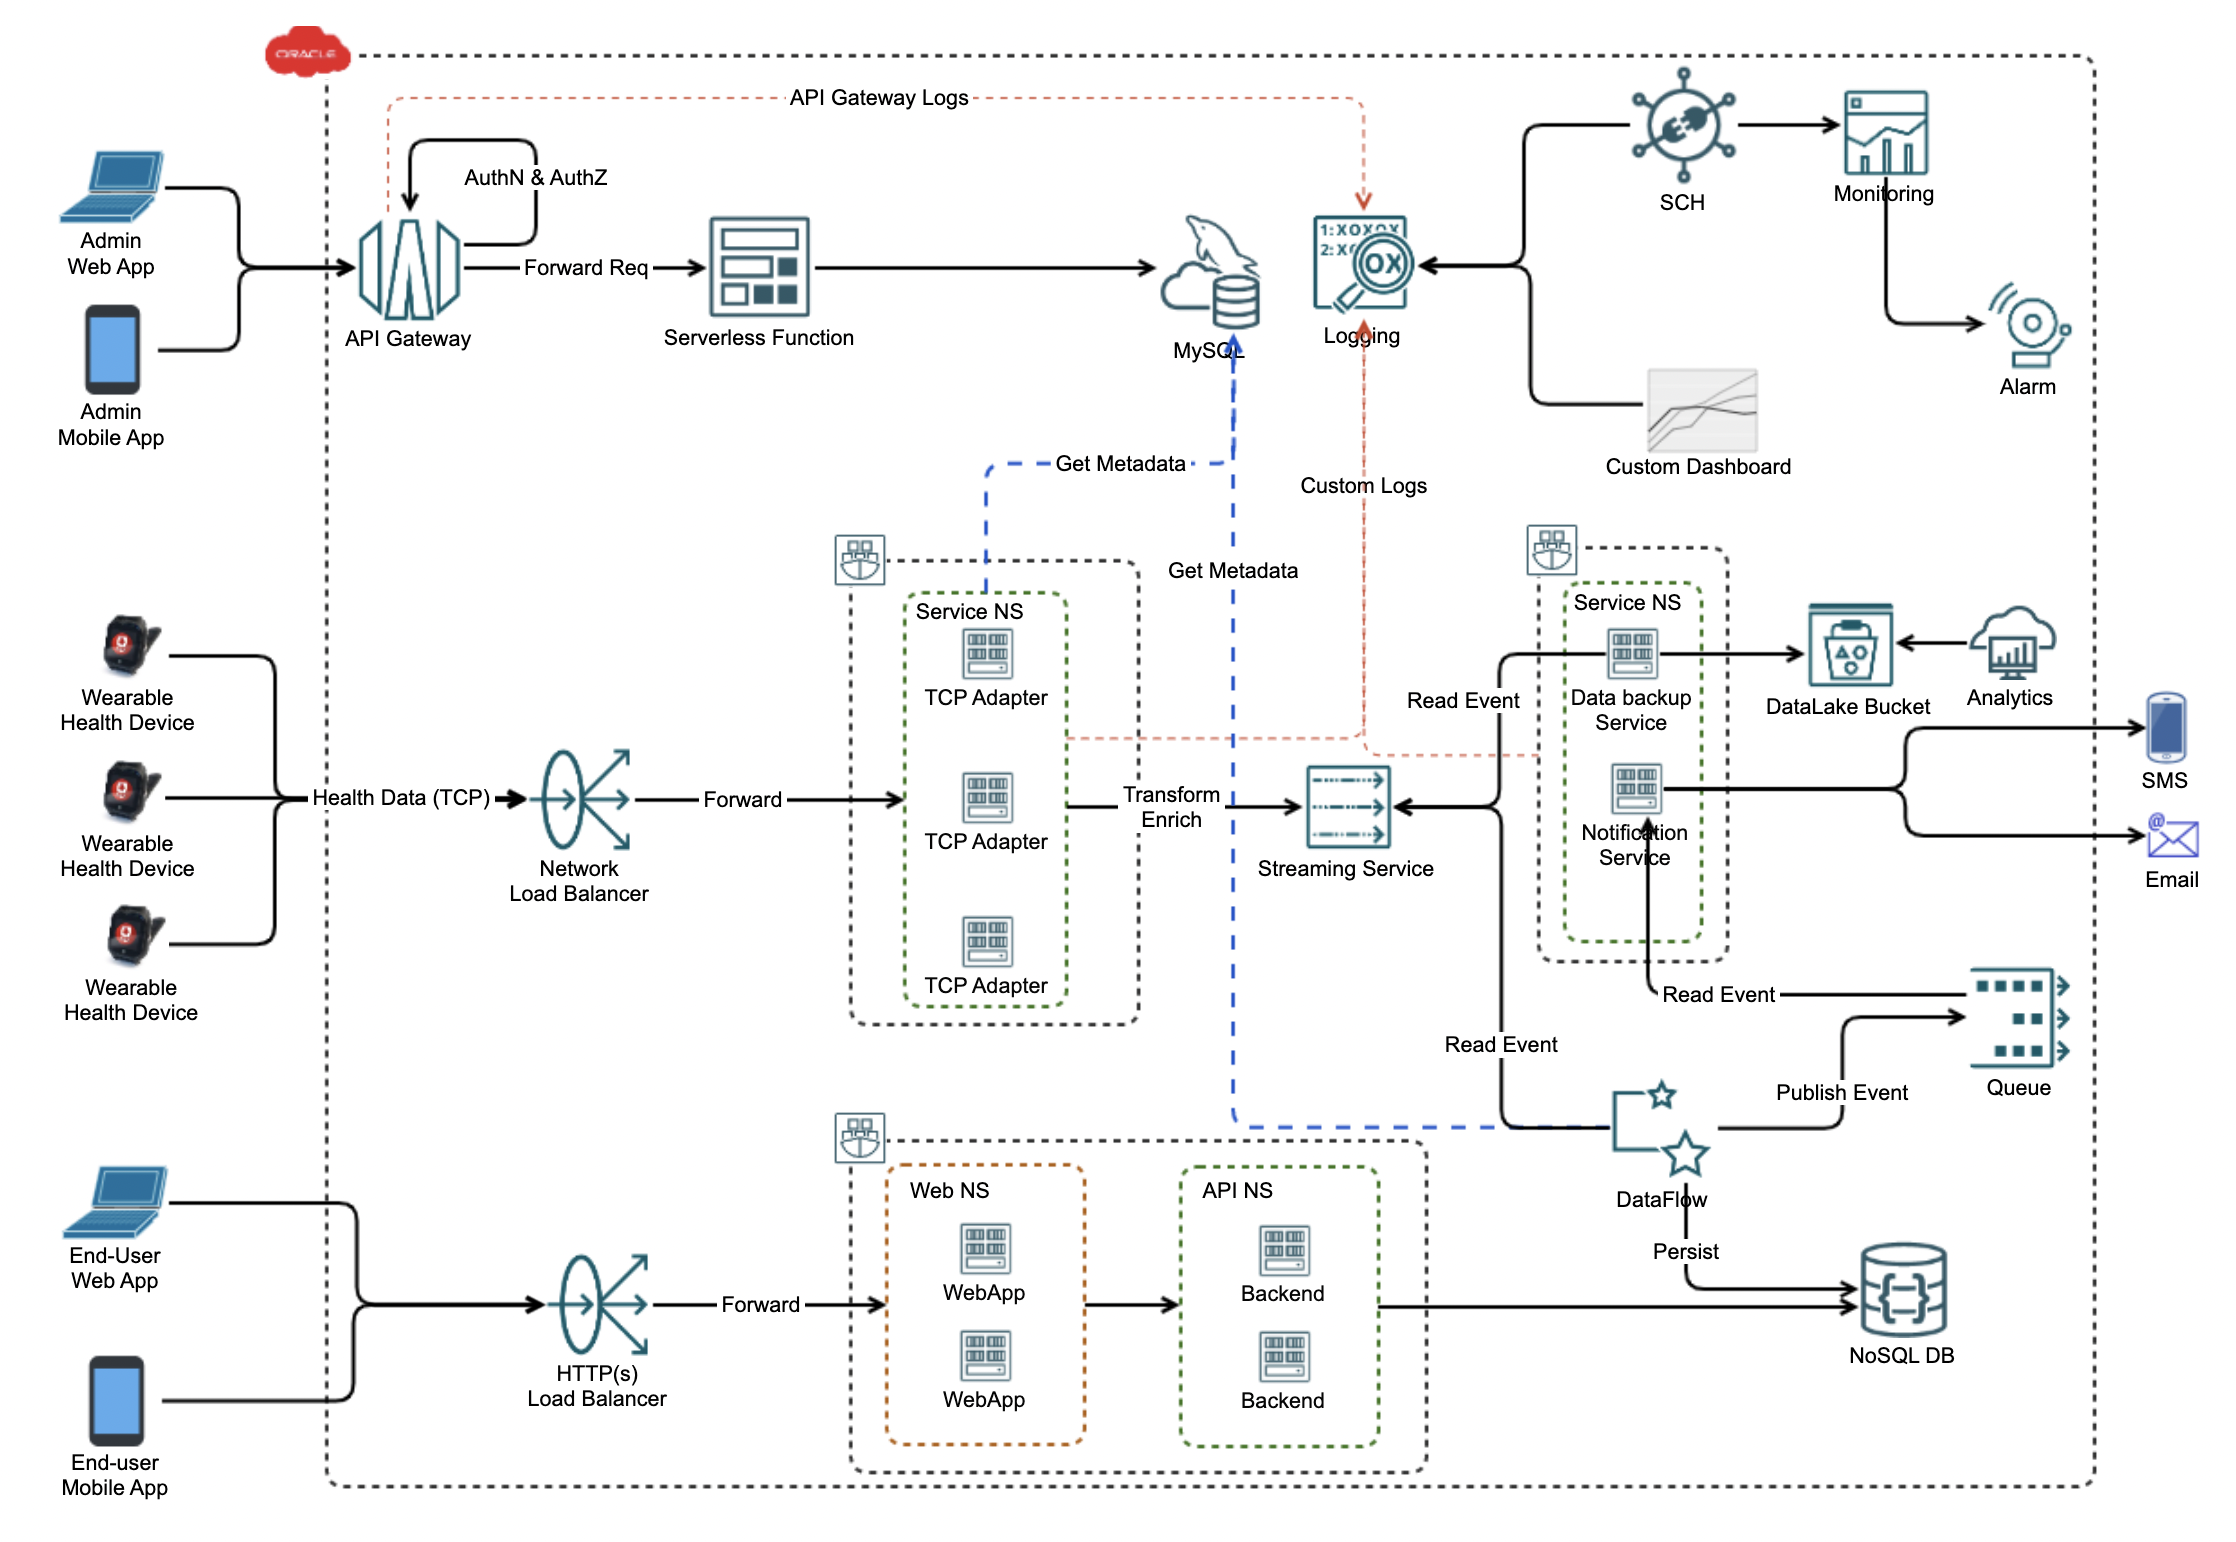
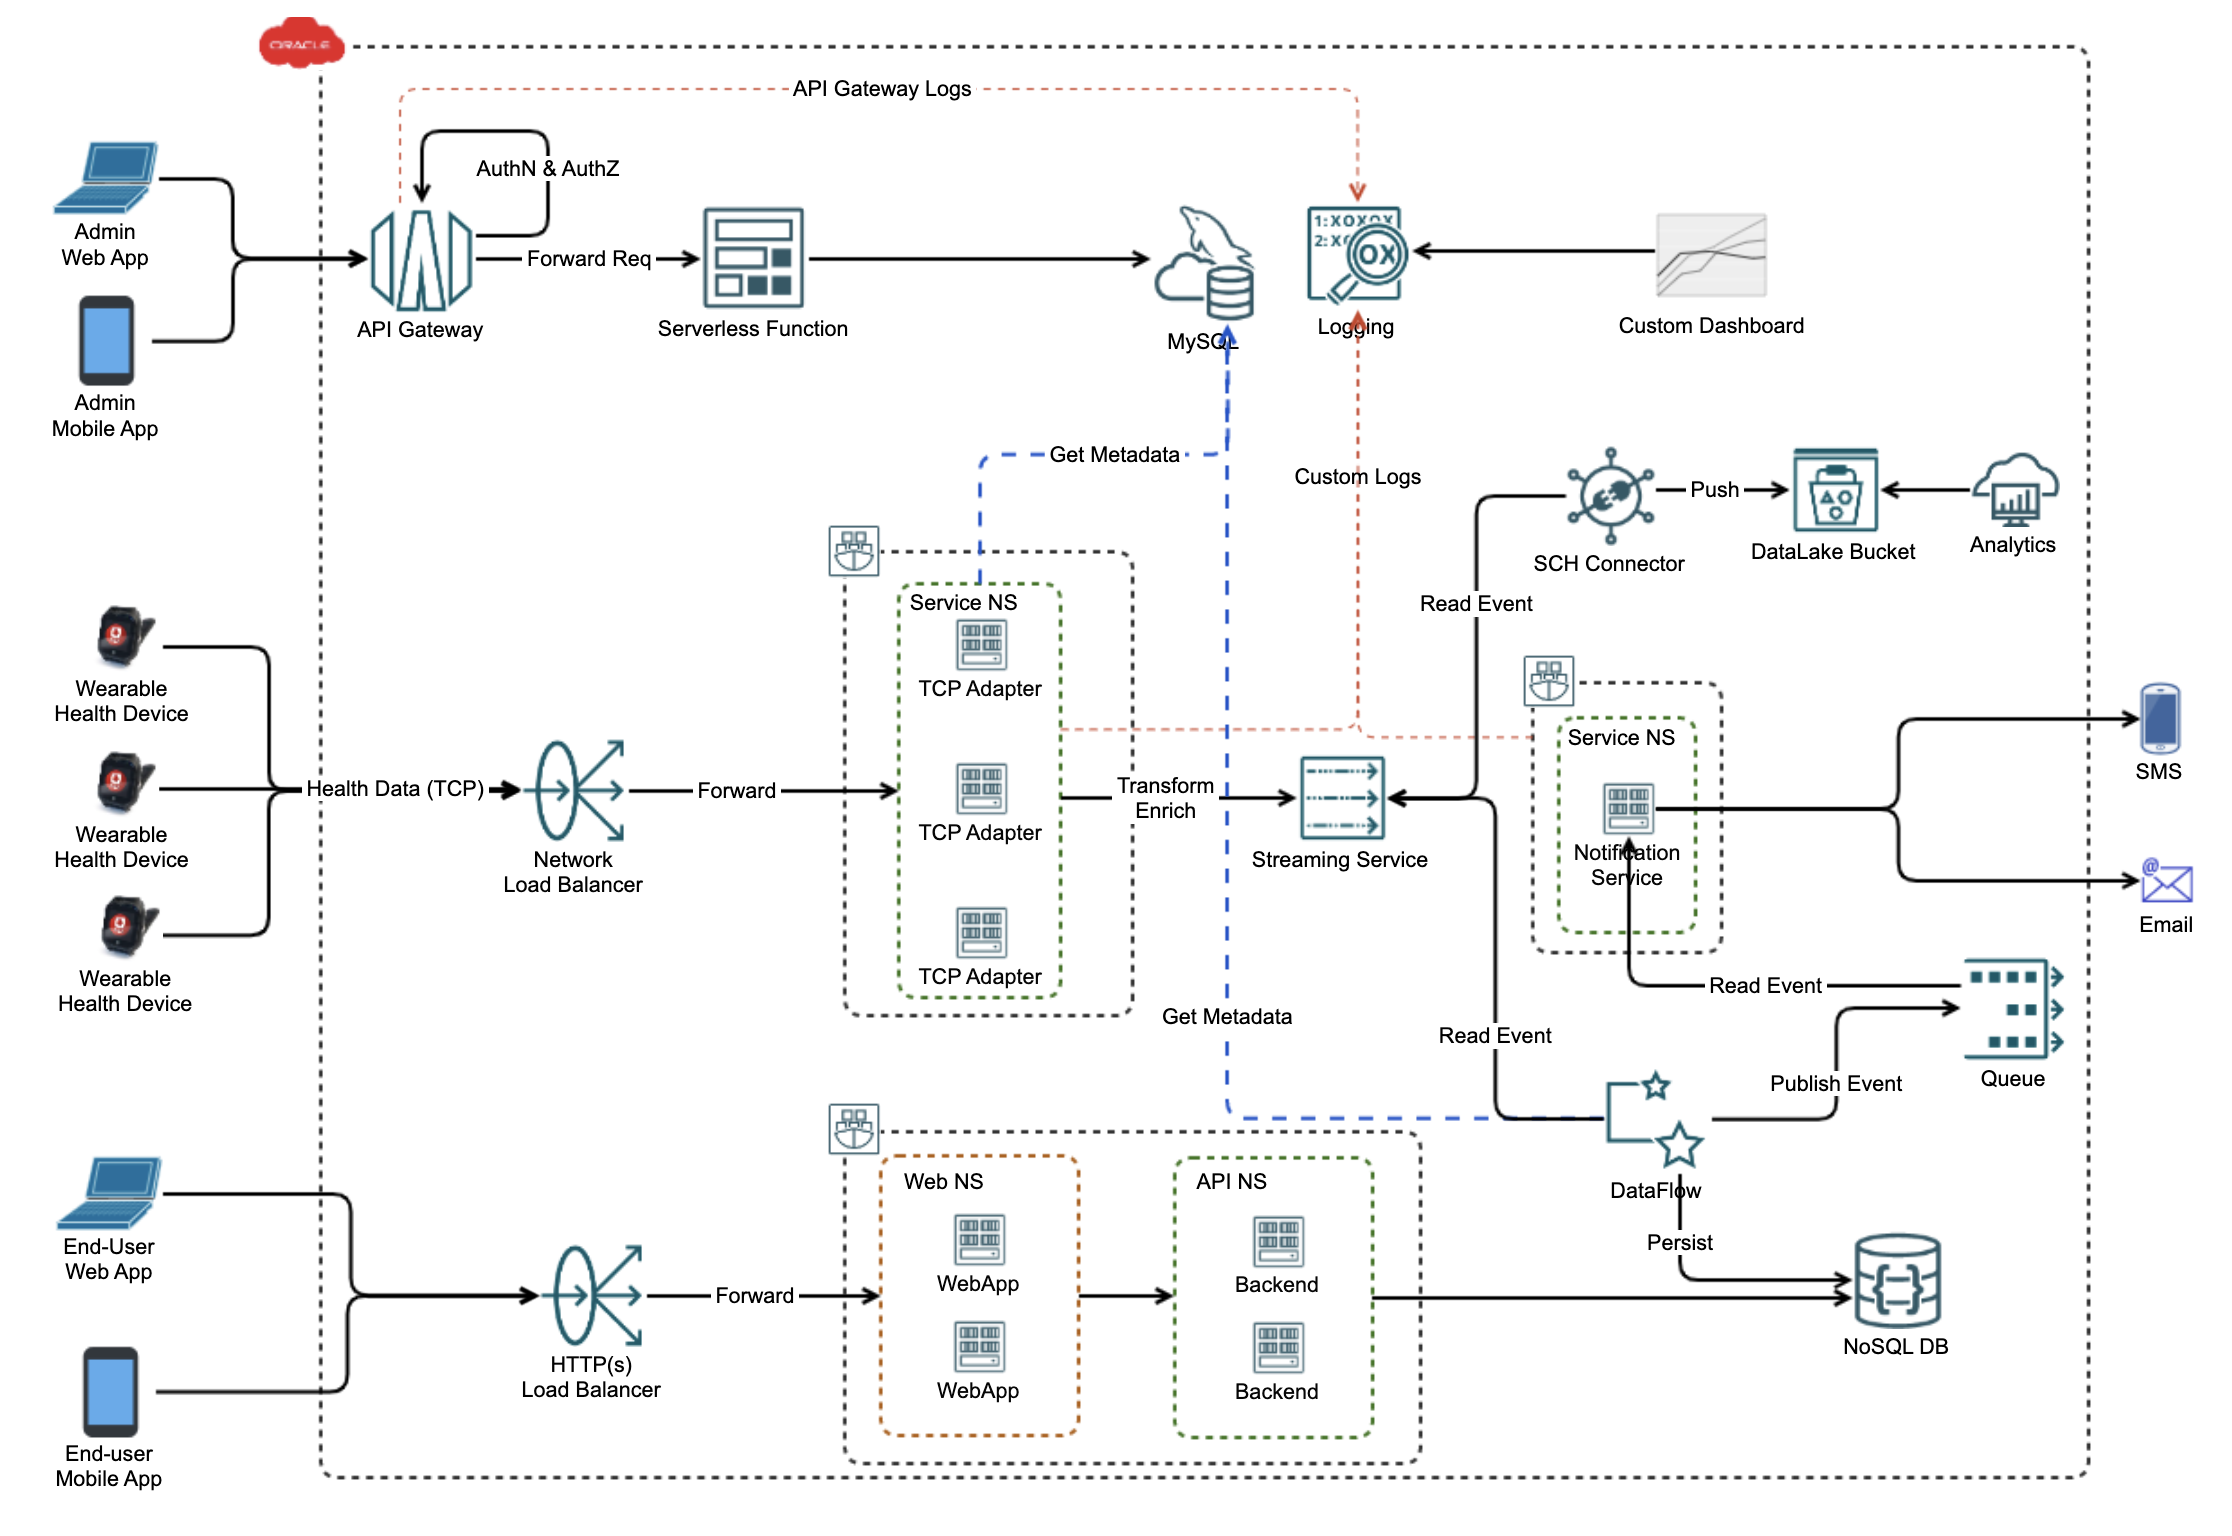
added more services info in README

diff --git a/README.md b/README.md
@@ -44,7 +44,7 @@ Oracle automates tasks such as backup and recovery, and database and operating s
 
 We use Mysql to store the Users, User Preferences and Device data.
 
-### OCI K8 cluster
+### OKE
 
 Oracle Cloud Infrastructure [Container Engine](https://docs.oracle.com/en-us/iaas/Content/ContEng/Concepts/contengoverview.htm) for Kubernetes is a fully-managed, scalable, and highly available service that you can use to deploy your containerized applications to the cloud.
 
@@ -74,6 +74,38 @@ A [NoSQL database](https://docs.oracle.com/en-us/iaas/nosql-database/index.html)
 
 In our demo application we use the NoSqlDB to store the raw events which are received by the IOT gateway application. NoSql provides us with the flexibility to store raw events which can be of different schema types.
 
+### SCH
+
+Service Connector Hub [Service Connector Hub](https://docs.oracle.com/en-us/iaas/Content/service-connector-hub/overview.htm) is a cloud message bus platform that offers a single pane of glass for describing, executing, and monitoring movement of data between services in Oracle Cloud Infrastructure.
+
+The application uses SCH to move events coming on the Stream to the Object Storage, where those are persisted for long term duration.
+
+### Network Load Balancer (NLB)
+
+The Device Gateway (TCP Server) is front-ended by a [Network Load Balancer](https://docs.oracle.com/en-us/iaas/Content/NetworkLoadBalancer/overview.htm), which is responsible for distribution of traffic. The device gateway is deployed on OKE using K8s service type as Load Balancer.
+
+The deployment manifest of TCP Server component automatically spins-up a NLB, configures the backend routing policy and the network security list, using the following annotations
+
+``` Java
+    oci.oraclecloud.com/load-balancer-type: "nlb"
+    oci-network-load-balancer.oraclecloud.com/backend-policy: "FIVE_TUPLE"
+    oci-network-load-balancer.oraclecloud.com/security-list-management-mode: "All"
+```
+
+### UMA and Custom Dashboards
+
+[Unified Monitoring Agents](https://docs.oracle.com/en-us/iaas/Content/Logging/Concepts/agent_management.htm) are used To ingest events from the applications into a custom log. This agent allows you to control exactly which logs you want to collect, how to parse them, and more. 
+
+Using [Logging Query Language](https://docs.oracle.com/en-us/iaas/Content/Logging/Reference/query_language_specification.htm), the ingested logs are viewed by creating Custom Dashboards.
+
+### Developer Tools
+
+[DevOps Service](https://docs.oracle.com/en-us/iaas/Content/devops/using/getting_started.htm) in OCI is an end-to-end, continuous integration and continuous delivery (CI/CD) platform for developers. Use this service to easily build, test, and deploy software and applications on Oracle Cloud.
+
+The application is using features like Build & Deployment pipelines, Triggers, Artifacts and Environments for implementing CI/CD process.
+
+![Custom-Dashboard](./images/Custom-Dashboard.png)
+
 ## Getting Started
 
 Before you deploy this demo application, make sure you have
@@ -82,7 +114,7 @@ Before you deploy this demo application, make sure you have
 
 * Have the permissions and quota available to manage the required resources.
 
-* Have got access to the Queue service since its still in LA.
+* Have got access to the Queue service since it's still in LA.
 
 ### Prerequisites
 
@@ -94,7 +126,7 @@ If you don't have the required permissions and quota, contact your tenancy admin
 
 ## Notes/Issues
 
-The OCI Queue service being used in the solution is currently in LA and will soon GA. Please follow the OCI News for the latest updates.
+The OCI Queue service being used in the solution is currently in LA and will soon be GA. Please follow the OCI News for the latest updates.
 One can get access to the LA feature by contacting support.
 
 ## URLs
